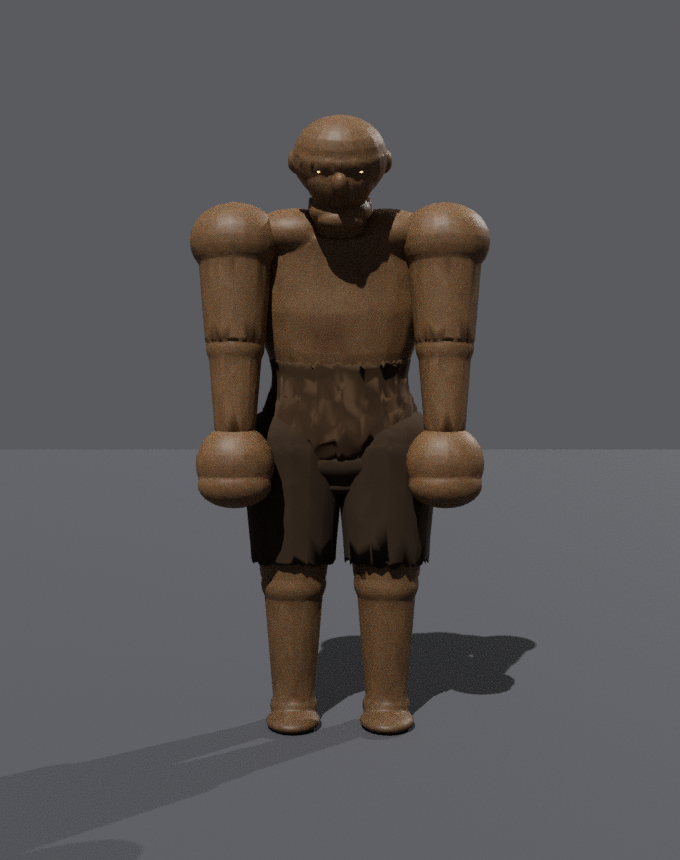
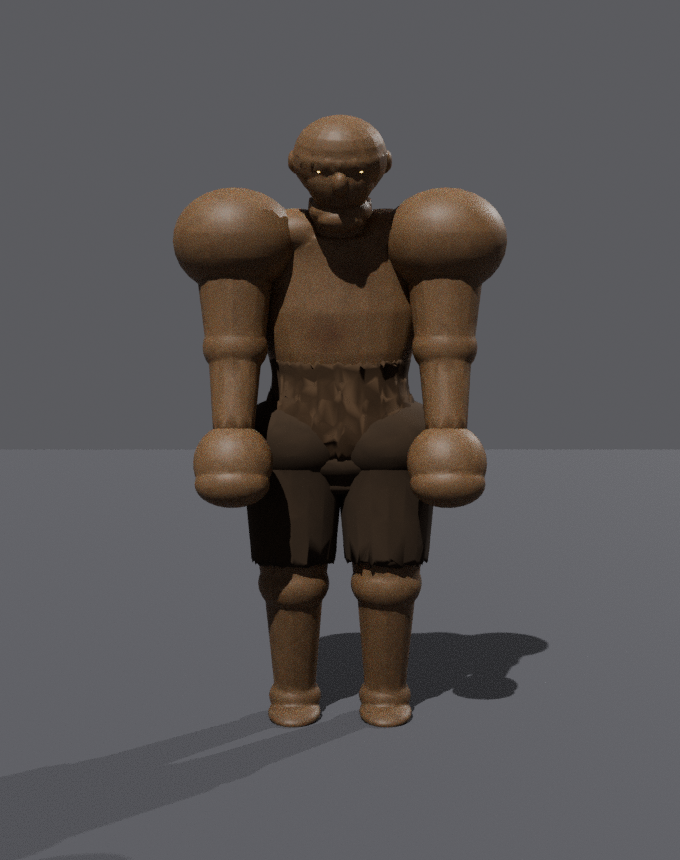
Proofs: joint closeups (8 kinds x base/walk/reach x shoulders+legs) + refreshed wave-2 side-by-sides

diff --git a/tools/figures/render_joint_proofs.py b/tools/figures/render_joint_proofs.py
@@ -1,0 +1,170 @@
+# render_joint_proofs.py — JOINT CONTINUITY gate proofs (2026-10-21).
+#
+# Per authored kind: rebuild via runpy, pose the rig at BASE, at the
+# WALK extreme (max swing) and at a DEEP REACH (attack wind-up), and
+# render closeups framed on the joint subtrees — shoulders from the
+# front (the historic detachment site), legs from the side (hip + knee
+# profile). Output: design-refs/proof-figures-joints/.
+#
+# Run: blender -b -noaudio --python tools/figures/render_joint_proofs.py -- <kind|all>
+import bpy, math, os, runpy, sys
+from mathutils import Vector
+
+WT = os.path.expanduser("~/workspace/nomad-wt/figures-authored-2")
+WHICH = sys.argv[sys.argv.index('--') + 1] if '--' in sys.argv else 'all'
+KINDS = ['shambler', 'crawler', 'spitter', 'screamer', 'bloater', 'stalker', 'armored', 'brute']
+OUT = os.path.join(WT, "design-refs/proof-figures-joints")
+os.makedirs(OUT, exist_ok=True)
+
+
+def setup_scene():
+    scene = bpy.context.scene
+    scene.render.engine = 'CYCLES'
+    scene.cycles.samples = 16
+    scene.cycles.use_adaptive_sampling = True
+    scene.cycles.adaptive_threshold = 0.03
+    scene.cycles.use_denoising = False
+    scene.render.resolution_x = 560
+    scene.render.resolution_y = 560
+    scene.view_settings.view_transform = 'AgX'
+    scene.view_settings.look = 'AgX - Medium High Contrast'
+    world = bpy.data.worlds.get('World') or bpy.data.worlds.new('World')
+    scene.world = world
+    world.use_nodes = True
+    world.node_tree.nodes['Background'].inputs['Color'].default_value = (0.13, 0.13, 0.14, 1)
+    world.node_tree.nodes['Background'].inputs['Strength'].default_value = 0.9
+    bpy.ops.object.light_add(type='SUN', location=(4, -6, 9))
+    sun = bpy.context.active_object
+    sun.data.energy = 3.4
+    sun.rotation_euler = (math.radians(38), math.radians(8), math.radians(-28))
+    bpy.ops.object.light_add(type='SUN', location=(-6, 5, 4))
+    fill = bpy.context.active_object
+    fill.data.energy = 1.2
+    fill.rotation_euler = (math.radians(55), math.radians(-15), math.radians(140))
+    bpy.ops.mesh.primitive_plane_add(size=40, location=(0, 0, -0.001))
+    g = bpy.context.active_object
+    g.name = "proofGround"
+    gm = bpy.data.materials.new("ground"); gm.use_nodes = True
+    gm.node_tree.nodes["Principled BSDF"].inputs["Base Color"].default_value = (0.09, 0.09, 0.1, 1)
+    gm.node_tree.nodes["Principled BSDF"].inputs["Roughness"].default_value = 0.95
+    g.data.materials.append(gm)
+    bpy.ops.object.camera_add()
+    cam = bpy.context.active_object
+    scene.camera = cam
+    cam.data.lens = 42
+    return cam
+
+
+def slump(P, tx):
+    P['torso'].rotation_euler.x = tx
+    P['head'].rotation_euler.x = 0.08
+    P['head'].rotation_euler.y = -0.20
+    P['armL'].rotation_euler.x = -0.595
+    P['armR'].rotation_euler.x = -0.455
+    P['armL'].rotation_euler.y = -0.10
+    P['armR'].rotation_euler.y = 0.10
+
+
+def apply_pose(kind, P, variant):
+    # ---- base (mirrors applyAuthoredPose / poseSlump mid-values) ----
+    if kind == 'crawler':
+        P['torso'].location = (0, 0, 0.4)
+        P['torso'].rotation_euler.x = 1.35
+        P['head'].rotation_euler.x = -1.1
+        P['armL'].rotation_euler.x = -1.85
+        P['armR'].rotation_euler.x = -1.75
+        P['legL'].location = (-0.17, 0.2, 0.44)
+        P['legR'].location = (0.17, 0.2, 0.44)
+        P['legL'].rotation_euler.x = 0.95
+        P['legR'].rotation_euler.x = 0.88
+        P['figureRoot'].scale = (1, 1, 0.96)
+    elif kind == 'brute':
+        P['figureRoot'].scale = (1.22, 1.12, 1)
+        P['torso'].rotation_euler.x = 0.24
+        P['head'].rotation_euler.x = 0.28
+        P['armL'].rotation_euler.x = -0.3
+        P['armR'].rotation_euler.x = -0.3
+    elif kind == 'screamer':
+        P['torso'].rotation_euler.x = 0.06
+        P['head'].rotation_euler.x = -0.25
+        P['armL'].rotation_euler.x = -0.42
+        P['armR'].rotation_euler.x = -0.34
+    elif kind == 'bloater':
+        slump(P, 0.10)
+        P['armL'].rotation_euler.y = -0.38
+        P['armR'].rotation_euler.y = 0.38
+    elif kind == 'stalker':
+        slump(P, 0.20)
+    else:  # shambler, spitter, armored
+        slump(P, 0.14)
+    # ---- variants ----
+    if variant == 'walk':
+        if kind == 'crawler':
+            P['legL'].rotation_euler.x = 1.25
+            P['legR'].rotation_euler.x = 0.58
+            P['armL'].rotation_euler.x = -1.55
+            P['armR'].rotation_euler.x = -2.05
+        else:
+            sw = 0.2 if kind == 'brute' else 0.36
+            P['legL'].rotation_euler.x += sw
+            P['legR'].rotation_euler.x -= sw
+            P['armL'].rotation_euler.x -= 0.23
+            P['armR'].rotation_euler.x += 0.23
+    elif variant == 'reach':
+        if kind == 'crawler':
+            P['armL'].rotation_euler.x = -2.3
+        else:
+            P['armL'].rotation_euler.x = -1.25
+    bpy.context.view_layer.update()
+
+
+def subtree_bbox(roots):
+    dg = bpy.context.evaluated_depsgraph_get()
+    lo = Vector((1e9, 1e9, 1e9)); hi = Vector((-1e9, -1e9, -1e9))
+    for root in roots:
+        for o in [root] + list(root.children_recursive):
+            if o.type != 'MESH':
+                continue
+            ev = o.evaluated_get(dg)
+            for c in ev.bound_box:
+                w = ev.matrix_world @ Vector(c)
+                lo = Vector(map(min, lo, w)); hi = Vector(map(max, hi, w))
+    return lo, hi
+
+
+def frame(cam, P, shot):
+    if shot == 'shoulders_front':
+        lo, hi = subtree_bbox([P['armL'], P['armR'], P['torso']])
+        # crop to the shoulder band (top 45% of the union box)
+        hi2 = hi.copy(); lo2 = lo.copy()
+        lo2.z = hi.z - (hi.z - lo.z) * 0.45
+        target = (lo2 + hi2) / 2
+        r = max(hi2.x - lo2.x, hi2.z - lo2.z)
+        dist = r * 1.15 + 0.30
+        cam.location = target + Vector((0, -dist, dist * 0.10))
+    else:  # legs_side
+        lo, hi = subtree_bbox([P['legL'], P['legR']])
+        tlo, thi = subtree_bbox([P['torso']])
+        lo.z = min(lo.z, thi.z - (thi.z - tlo.z) * 0.35)  # include the hip band
+        target = (lo + hi) / 2
+        r = max(hi.y - lo.y, hi.z - lo.z)
+        dist = r * 1.05 + 0.30
+        cam.location = target + Vector((dist, 0, dist * 0.08))
+    direction = Vector(target) - cam.location
+    cam.rotation_euler = direction.to_track_quat('-Z', 'Y').to_euler()
+    bpy.context.view_layer.update()
+
+
+for kind in (KINDS if WHICH == 'all' else [WHICH]):
+    for variant in ('base', 'walk', 'reach'):
+        runpy.run_path(os.path.join(WT, "tools/figures", f"build_{kind}_authored.py"))
+        cam = setup_scene()
+        O = bpy.data.objects
+        P = {n: O[n] for n in ('figureRoot', 'torso', 'head', 'jaw', 'armL', 'armR', 'legL', 'legR')}
+        apply_pose(kind, P, variant)
+        for shot in ('shoulders_front', 'legs_side'):
+            frame(cam, P, shot)
+            bpy.context.scene.render.filepath = os.path.join(OUT, f"{kind}_{variant}_{shot}.png")
+            bpy.ops.render.render(write_still=True)
+            print("RENDERED", kind, variant, shot)
+print("JOINT PROOFS DONE")
